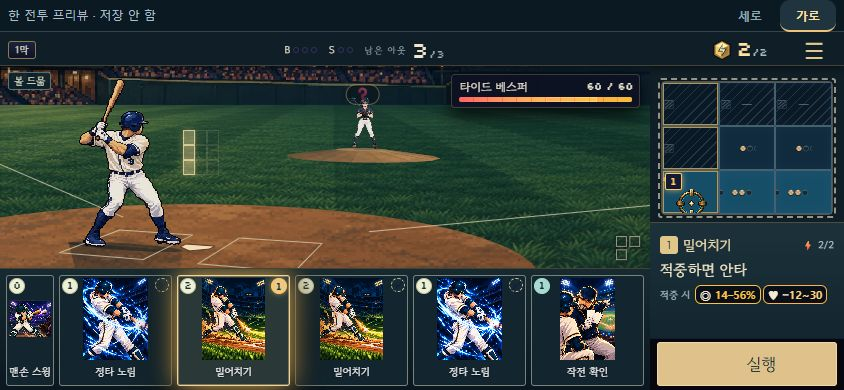
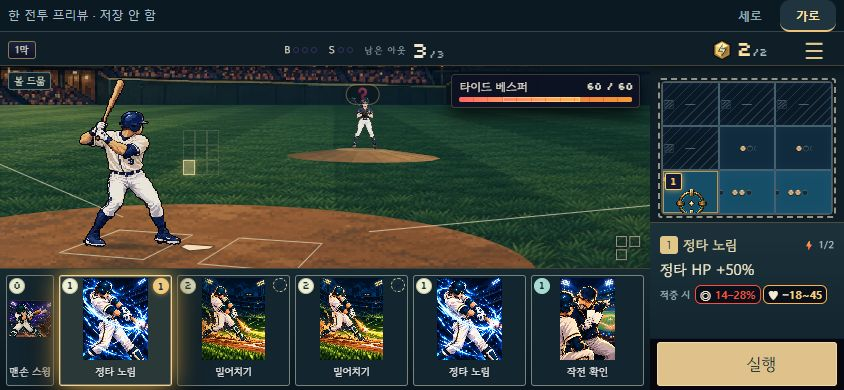
Soften field shadows without changing ground anchors

diff --git a/src/duel/LandscapeField.jsx b/src/duel/LandscapeField.jsx
@@ -11,16 +11,19 @@ export default function LandscapeField({width,height}){
   const moundZ=FIELD.rubberDistance-.4572,horizon=cameraLens(width,height).y;
   const shadow=(x,z,bodyHeight,rx,rz,y,id)=>{
     const [ex,ez]=castShadowEnd(x,z,bodyHeight),foot=projectField(width,height,x,z,y);
+    const dx=ex-x,dz=ez-z,length=Math.hypot(dx,dz)||1;
+    const cast=Array.from({length:48},(_,i)=>{const a=i*Math.PI/24,t=(1-Math.cos(a))/2,w=Math.sin(a)*rx*.7;return [x+dx*t-dz/length*w,z+dz*t+dx/length*w,y];});
     return <g data-testid={'ground-shadow-'+id} data-foot={`${foot.x},${foot.y}`}>
-      <polygon points={poly([[x-rx,z,y],[x+rx,z,y],[ex+rx*.6,ez,y],[ex-rx*.6,ez,y]])} fill="url(#wide-cast)"/>
-      <polygon points={poly(ring(1).map(([px,pz])=>[x+px*rx,z+pz*rz,y]))} fill="#071b23" opacity=".48"/>
+      <polygon points={poly(cast)} fill="url(#wide-cast)"/>
+      <polygon points={poly(ring(1).map(([px,pz])=>[x+px*rx,z+pz*rz,y]))} fill="url(#wide-contact)"/>
     </g>;
   };
   return <svg className="bp-camera-ground" viewBox={`0 0 ${width} ${height}`} aria-hidden="true" data-testid="camera-ground">
     <defs>
       <linearGradient id="wide-turf" x2="0" y2="1"><stop stopColor="#173e38"/><stop offset="1" stopColor="#38513d"/></linearGradient>
       <linearGradient id="wide-dirt" x2="1" y2="1"><stop stopColor="#a17b52"/><stop offset=".5" stopColor="#73583e"/><stop offset="1" stopColor="#493f36"/></linearGradient>
-      <linearGradient id="wide-cast" x2="1" y2="1"><stop stopColor="#061722" stopOpacity=".45"/><stop offset="1" stopColor="#061722" stopOpacity="0"/></linearGradient>
+      <radialGradient id="wide-cast"><stop stopColor="#061722" stopOpacity=".28"/><stop offset=".45" stopColor="#061722" stopOpacity=".17"/><stop offset="1" stopColor="#061722" stopOpacity="0"/></radialGradient>
+      <radialGradient id="wide-contact"><stop stopColor="#071b23" stopOpacity=".48"/><stop offset=".55" stopColor="#071b23" stopOpacity=".25"/><stop offset="1" stopColor="#071b23" stopOpacity="0"/></radialGradient>
       <pattern id="wide-grain" width="31" height="23" patternUnits="userSpaceOnUse"><path d="M3 5h2v1H3z M17 13h3v1h-3z M26 2h1v2h-1z" fill="#f4dcab" opacity=".08"/><path d="M9 17h3v1H9z M22 9h2v2h-2z" fill="#061f26" opacity=".2"/></pattern>
       <clipPath id="wide-dirt-clip"><polygon points={poly(ring(4.3))}/></clipPath>
       <clipPath id="wide-mound-clip"><polygon points={poly(ring(FIELD.moundRadius,0,moundZ))}/></clipPath>

diff --git a/assets/landscape-ballpark-v4/README.md b/assets/landscape-ballpark-v4/README.md
@@ -23,5 +23,6 @@
 - `turf-source.png`, `clay-source.png`: GPT가 생성한 새 지면 재질 원본. 흙의 첫 사진형 후보는 불채택하고 도트 재질로 다시 생성했다. 프롬프트는 같은 폴더에 보존한다. WebP는 크기 변경 없이 포맷만 내보냈다.
 - 마운드·타석·rubber는 재질에 굽지 않는다. `LandscapeField`가 기존 world camera로 투영하고 .254m plateau와 sloped radial faces를 만든다. 흙을 같은 표면에 clip해 사용한다.
 - 광원은 world(-12,22,16)의 상부 좌측 조명 기준이다. 공통 SVG ground layer가 두 배우의 접촉 그림자와 방향성 cast를 그리며 wide의 기존 DOM/Pixi ellipse/drop-shadow는 껐다. 기존120프레임 투수의 움직이는 사지 전체를 추적한 물리 그림자는 아니고 고정 접점/접지 영역 기준이다.
+- PC에서 직선 모서리가 보이던 cast 사각형은 같은 광원 방향의48점 타원과 방사 감쇠로 보완했다. 접촉 영역도 중심에서 가장자리로 농도를 낮춰 검은 판처럼 보이는 경계를 줄였다.
 
 실행 기록은 `docs/qa/landscape-refine-20261027/README.md`에 정리한다. 이 작업을 전체 로스터·실기기·상업적 완성도 검증으로 주장하지 않는다.

diff --git a/docs/qa/landscape-refine-20261027/README.md b/docs/qa/landscape-refine-20261027/README.md
@@ -16,6 +16,8 @@
 
 `fixtures.html`은 localhost에서만 동작하고 해당 origin의 테스트 저장을 교체한다. 공개 프리뷰는 기존 `battlePreview=1`의 저장 없는 전투를 사용한다. 실기기 터치·주소창·safe area·롱프레스 전체 조합은 미검증이다. 회전 검증은 데스크톱 viewport 변경과 A/B이며 실제 휴대폰 회전 검증은 아니다.
 
+마지막 PC 캡처에서 cast 사각형의 모서리가 검은 판처럼 보이는 문제를 추가 보완했다. 같은 world 접점·광원·영역을 유지하고48점 타원과 방사 감쇠로 바꿨다. 최종844·1440 캡처는 보정 이후이며, 전체1,272테스트와 build도 그 뒤 재실행한 로그다. 독립 reviewer가 이 추가 변경의 격리 범위도 다시 확인했다.
+
 ## 명령 결과
 
 - 전체 **200파일 / 1,272테스트** 통과, exit0: [최종 로그](tests-final.txt).

diff --git a/docs/design/LANDSCAPE-RECOVERY-LIGHT-20261027.md b/docs/design/LANDSCAPE-RECOVERY-LIGHT-20261027.md
@@ -26,3 +26,7 @@
 ## 완료 근거
 
 구현 후 실제 실행 결과와 남은 한계를 QA 문서에 기록한다. 실기기 터치/브라우저바/상업적 완성도는 자동검증으로 주장하지 않는다.
+
+### PC 캡처 후 그림자 보완
+
+공개1280 화면에서 cast 사각형의 모서리가 드러나 바닥에 검은 판이 놓인 듯 보였다. 동일한 world 접점·광원 방향은 유지하고 cast 외곽을 타원으로, 농도를 방사 감쇠로 바꾼다. 위9축 중 시각·빌드만 다시 영향받으며 입력·규칙·저장·레이아웃·세로에는 추가 영향이 없다. 큰 화면 캡처, 관련 회귀·전체 테스트와 빌드를 다시 확인한다.
